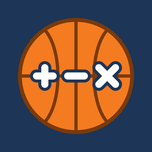
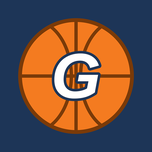
v3.37: Gabi juega con sus compañeros (bienvenida, ánimos en su bocadillo, récord de Gabi) y vuelve el icono de la G
Claude-Session: https://claude.ai/code/session_01SzTzzzohvvMUpqctBHsnA3

diff --git a/index.html b/index.html
@@ -3,11 +3,11 @@
 <head>
 <meta charset="UTF-8">
 <meta name="viewport" content="width=device-width, initial-scale=1, viewport-fit=cover">
-<meta name="app-version" content="3.36">
+<meta name="app-version" content="3.37">
 <meta name="theme-color" content="#1d3557">
 <meta name="apple-mobile-web-app-capable" content="yes">
 <meta name="mobile-web-app-capable" content="yes">
-<meta name="apple-mobile-web-app-title" content="Canastas">
+<meta name="apple-mobile-web-app-title" content="Canastas Gabi">
 <link rel="manifest" href="manifest.webmanifest">
 <link rel="icon" type="image/png" sizes="32x32" href="favicon-32.png">
 <link rel="icon" type="image/png" sizes="192x192" href="icon-192.png">
@@ -15,10 +15,10 @@
 <link rel="apple-touch-icon" sizes="152x152" href="icon-152.png">
 <link rel="apple-touch-icon" sizes="167x167" href="icon-167.png">
 <link rel="apple-touch-icon" sizes="180x180" href="apple-touch-icon.png">
-<title>Canastas: sumas y restas con llevadas</title>
+<title>Canastas de Gabi: sumas y restas con llevadas</title>
 <meta name="description" content="Juego de baloncesto para practicar sumas y restas con llevadas y las tablas de multiplicar (2º de primaria).">
 <meta property="og:type" content="website">
-<meta property="og:title" content="Canastas: sumas, restas y tablas jugando al baloncesto">
+<meta property="og:title" content="Canastas de Gabi">
 <meta property="og:description" content="Juego de baloncesto para practicar sumas y restas con llevadas y las tablas de multiplicar (2º de primaria).">
 <meta property="og:url" content="https://indalo-apps.github.io/canastas-gabi/">
 <meta property="og:image" content="https://indalo-apps.github.io/canastas-gabi/og.png">
@@ -29,7 +29,7 @@
 <link href="https://fonts.googleapis.com/css2?family=Baloo+2:wght@500;700;800&family=Orbitron:wght@700;900&display=swap" rel="stylesheet">
 <style>
   :root{
-    --naranja:#bd570a; --naranja-osc:#c95d0c; --azul:#1d3557; --azul2:#274b7a;
+    --naranja:#b5520a; --naranja-osc:#c95d0c; --azul:#1d3557; --azul2:#274b7a;
     --madera:#e9c48f; --madera2:#d9a865; --verde:#22814b; --rojo:#d63030;
     --crema:#fff8ee; --tinta:#1d2433; --amarillo:#ffd23f; --ik-accent:#e06a10;
   }
@@ -91,8 +91,8 @@
     box-shadow:0 8px 0 var(--o),0 0 0 4px var(--amarillo)}
   .opt[data-nivel]:not(.sel),.opt[data-modo]:not(.sel){filter:saturate(.75) brightness(.97)}
   .opt[data-nivel=suma]{--c:#22814b;--o:#195f37} .opt[data-nivel=resta]{--c:#2c6ccb;--o:#21549a}
-  .opt[data-nivel=tablas]{--c:#6b48f5;--o:#4a2bc4} .opt[data-nivel=mezcla]{--c:#bd570a;--o:#883f07}
-  .opt[data-modo=partido]{--c:#bd570a;--o:#883f07} .opt[data-modo=entreno]{--c:#107f7f;--o:#0c5d5d}
+  .opt[data-nivel=tablas]{--c:#6b48f5;--o:#4a2bc4} .opt[data-nivel=mezcla]{--c:#b5520a;--o:#883f07}
+  .opt[data-modo=partido]{--c:#b5520a;--o:#883f07} .opt[data-modo=entreno]{--c:#107f7f;--o:#0c5d5d}
   .opt[data-modo=reto]{--c:#d63030;--o:#a41c1c}
   .opt[data-modo=rapido]{--c:#7c3aed;--o:#4c1d95}
 
@@ -316,6 +316,12 @@
   .aj-nombre .campo-nombre{margin:0;font-size:1.1rem;min-height:44px;padding:8px 10px}
   .aj-nombre .chip{flex-shrink:0}
   #dlg-nombre .tarjeta{text-align:center}
+  .dice-gabi{position:relative;background:#fff;border:2px solid #1d3557;border-radius:16px;padding:10px 12px;margin:8px 0 4px!important;font-weight:600;color:#1d3557}
+  .dice-gabi::before{content:"";position:absolute;top:-10px;left:50%;margin-left:-9px;border:9px solid transparent;border-top:0;border-bottom:10px solid #1d3557}
+  /* En el partido, los mensajes los dice Gabi: bocadillo con su cara (solo para los compañeros de Gabi) */
+  .con-gabi .mensaje:not(:empty){display:flex;align-items:center;gap:8px;text-align:left;background:#fff;border:2px solid #1d3557;border-radius:14px;
+    padding:4px 10px 4px 4px;margin:4px auto 2px;max-width:100%;width:fit-content}
+  .con-gabi .mensaje:not(:empty)::before{content:"";flex:0 0 38px;height:38px;border-radius:50%;background:#ffd9a8 url(sprites/a32.webp) no-repeat 46% 4%/120px auto;border:2px solid #1d3557}
   #dlg-nombre img{width:90px;height:auto;margin:0 auto 4px;display:block}
   #dlg-nombre p{margin:4px 0;line-height:1.35}
   .nom-nota{display:block;color:#5b6475;margin-top:10px;font-size:.9rem}
@@ -775,7 +781,7 @@ const IK = (function(){
     <div class="led">
       <button class="btn-ajustes btn-esquina izq" id="btn-vitrina" aria-label="Mis trofeos" title="Mis trofeos"><svg viewBox="0 0 24 24" width="24" height="24" aria-hidden="true"><path d="M8 4h8v5a4 4 0 0 1-8 0z M8 6H5a3 3 0 0 0 3 4 M16 6h3a3 3 0 0 1-3 4 M12 13v4 M8 20h8 M10 17h4" fill="none" stroke="#ffd23f" stroke-width="2.1" stroke-linecap="round" stroke-linejoin="round"/></svg></button><button class="btn-ajustes" id="btn-ajustes" aria-label="Ajustes" title="Ajustes"><svg viewBox="0 0 24 24" width="24" height="24" aria-hidden="true"><g fill="none" stroke="#fff" stroke-width="2.2" stroke-linecap="round"><circle cx="12" cy="12" r="3"/><circle cx="12" cy="12" r="6.5"/><path d="M12 2v3M12 19v3M2 12h3M19 12h3M4.9 4.9l2.1 2.1M17 17l2.1 2.1M4.9 19.1L7 17M17 7l2.1-2.1"/></g></svg></button>
       <div class="led-tit" id="led-hola">¡HOLA!</div>
-      <div class="led-sub">Cada cuenta bien hecha es una canasta 🏀</div>
+      <div class="led-sub" id="led-sub">Cada cuenta bien hecha es una canasta 🏀</div>
       <div class="led-fila">
         <div class="led-caja"><div class="led-etq">CANASTAS</div><div class="led-num" id="led-canastas">0</div></div>
         <div class="led-caja"><div class="led-etq">TROFEOS</div><div class="led-num verde" id="led-trofeos">0</div></div>
@@ -832,7 +838,7 @@ const IK = (function(){
       </div>
     </div>
 
-    <div class="version"><span class="nombre-juego">Canastas</span> · <button id="btn-version"></button></div>
+    <div class="version"><span class="nombre-juego">Canastas de Gabi</span> · <button id="btn-version"></button></div>
   </section>
 
   <!-- ============ JUEGO ============ -->
@@ -980,13 +986,13 @@ const IK = (function(){
 <div class="dlg" id="dlg-nombre" hidden role="dialog" aria-modal="true" aria-labelledby="nom-tit">
   <div class="tarjeta">
     <img src="sprites/a32.webp" alt="">
-    <h2 id="nom-tit">¡Hola! ¿Cómo te llamas?</h2>
-    <p>Escribe tu nombre y el público lo gritará en cada canasta 🏀</p>
+    <h2 id="nom-tit">¡Hola! Soy Gabi 👋</h2>
+    <p class="dice-gabi">Este es mi juego de canastas. Te invito a jugar en mi equipo. ¿Cómo te llamas?</p>
     <form id="nom-form" novalidate>
       <label for="nom-input" class="sr-only">Tu nombre</label>
       <input id="nom-input" class="campo-nombre" type="text" maxlength="12" autocomplete="off" autocapitalize="words" spellcheck="false" enterkeyhint="go" placeholder="Tu nombre">
       <p class="nom-error" id="nom-error" role="alert"></p>
-      <button class="btn" type="submit">¡A jugar! 🏀</button>
+      <button class="btn" type="submit">¡A jugar con Gabi! 🏀</button>
     </form>
     <small class="nom-nota">Se guarda solo en este dispositivo. Se puede cambiar en ⚙ Ajustes.</small>
   </div>
@@ -1016,7 +1022,7 @@ const IK = (function(){
       <div class="aj-botones"><button class="chip ancho" id="aj-instalar">📲 Cómo instalarla</button><button class="chip ancho" id="aj-enlace">🔗 Copiar enlace</button></div>
       <div class="aj-guia" id="aj-guia" hidden></div></div>
     <div class="ajuste"><b>Acerca de</b>
-      <p class="aj-acerca">🏀 <b class="nombre-juego">Canastas</b> · versión <span id="aj-version"></span><br>Hecho con cariño para que Gabi y sus compañeros practiquen sumas, restas y tablas jugando al baloncesto.</p>
+      <p class="aj-acerca">🏀 <b class="nombre-juego">Canastas de Gabi</b> · versión <span id="aj-version"></span><br>Este juego es de Gabi y lo comparte con su clase de 2º. Hecho con cariño para practicar sumas, restas y tablas jugando al baloncesto.</p>
       <p class="aj-aviso">Es un juego para practicar en casa y puede tener algún error. Si hay dudas, lo que vale es lo que enseñan en el cole.</p>
       <div class="aj-botones"><button class="chip ancho" id="aj-buscar">🔄 Buscar actualizaciones</button><button class="chip ancho" id="aj-novedades">✨ Ver novedades</button></div>
       <small id="aj-upd-msg" role="status" style="display:block;margin-top:6px;color:#5b6475">El juego se actualiza solo cuando hay una versión nueva.</small></div>
@@ -1055,6 +1061,9 @@ const IK = (function(){
   const PEDIR_NOMBRE = !NOMBRE && store.get('gabi-nombre') !== null;
   if (!NOMBRE) NOMBRE = 'crack';
   const MAY = NOMBRE.toLocaleUpperCase('es');
+  // En la tablet de Gabi todo sigue como siempre; para sus compañeros, Gabi les habla y les anima
+  const ES_GABI = NOMBRE.toLocaleLowerCase('es') === 'gabi';
+  if (!ES_GABI) document.documentElement.classList.add('con-gabi');
 
   // ---------- Sonido ----------
   let ctx = null, sonido = store.get('gabi-sonido'); if (sonido === null) sonido = true;
@@ -1290,6 +1299,12 @@ const IK = (function(){
     '¡Ha besado el aro y se ha escapado! 💋','¡Por un pelo de calvo! Prueba otra vez 👨🦲','¡Ese balón tenía prisa! Mira las casillas rojas',
     '¡Ay, el aro se ha puesto chulito! Otro intento','¡Hasta los mejores fallan! Revisa y vuelve a tirar','¡Uyyy! El público se ha tapado los ojos 🙈',
     '¡Se ha salido haciendo una pirueta! Otra vez','¡Casi entra! Mira despacio cada columna 🔍','¡Error de cálculo, capitán! Tienes otro tiro'];
+  if (!ES_GABI){
+    msgBien.push(`¡Toma ya, ${NOMBRE}! Así se juega en mi equipo 🏀`, '¡Eso lo hago yo con los ojos cerrados… bueno, casi! 😄',
+      `¡Choca esos cinco, ${NOMBRE}! ✋`, `¡Qué buen pase, ${NOMBRE}! La he metido gracias a ti`, `¡Me alegro de que juegues conmigo, ${NOMBRE}!`);
+    msgTriple.push(`¡Triple! ¡Tú y yo somos imparables, ${NOMBRE}! 🔥`, `¡Tres seguidas! Ni yo lo hago tan bien, ${NOMBRE} 😄`);
+    msgMal.push(`Tranqui, ${NOMBRE}, empieza por las unidades 😉`, `A mí también me pasa, ${NOMBRE}. ¡Otra vez!`, `No pasa nada, ${NOMBRE}. Lo repasamos juntos 🤝`);
+  }
   const msgRival = n => [`¡Canasta de ${n}!`,`${n} también sabe… ¡de momento!`,`¡Bien, ${n}! Pero ${NOMBRE} va a por ti`,
     `${n} ha acertado… ¡con las gafas puestas! 🤓`,`¡${n} no se ha oxidado nada! 🔧`,`¡Canasta! ${n} se viene arriba`,
     `${n} lo ha calculado con los dedos de los pies 🦶`,`Vaya, vaya… ${n} entrena a escondidas`];
@@ -1344,6 +1359,17 @@ const IK = (function(){
     return {suma:'Sumas', resta:'Restas', mezcla:'Mezcla'}[S.nivel] + (S.cifras==='3' ? ' de 3 cifras' : '');
   }
   const claveRecord = () => 'gabi-record-' + (S.modo==='rapido' ? 'rapido-' : '') + (S.nivel==='tablas' ? 'tabla-' + S.tabla : nivelReal());
+  // ---------- Récords de Gabi ----------
+  // Las mejores marcas de Gabi, para que sus compañeros intenten superarlas. Clave: la de claveRecord() sin «gabi-record-»
+  // (por ejemplo 'suma', 'resta3', 'tabla-7', 'rapido-suma'). Si una no está, no se muestra nada.
+  const RECORD_GABI = {};
+  const recordGabi = clave => ES_GABI ? 0 : (RECORD_GABI[String(clave).replace('gabi-record-','')] || 0);
+  const txtGabi = (puntos, clave) => {
+    const rg = recordGabi(clave); if (!rg) return '';
+    return puntos > rg ? `<p class="dice-gabi">🏆 ¡Has superado mi récord (${rg})! ¡Qué crack, ${NOMBRE}! — Gabi</p>`
+      : puntos === rg ? `<p class="dice-gabi">¡Empate con mi récord (${rg})! La próxima me ganas, ${NOMBRE} 😄 — Gabi</p>`
+      : `<p>⛹ Récord de Gabi: ${rg} puntos. ¡A por él! 💪</p>`;
+  };
   // Selector de cifras
   function pintarCifras(){ document.querySelectorAll('#chips-cifras .chip').forEach(c=>c.classList.toggle('sel', c.dataset.cifras===S.cifras)); }
   $('#chips-cifras').addEventListener('click', e => {
@@ -1366,7 +1392,9 @@ const IK = (function(){
     const md = {partido:'Partido', entreno:'Entrenamiento', rapido:'Contrarreloj', reto:'Reto contra ' + (S.rival==='Mamá' ? 'mamá' : 'papá')}[S.modo] || '';
     const rs = document.getElementById('bj-resumen'); if (rs) rs.textContent = nombreNivel() + ' · ' + md;
     const r = store.get(claveRecord());
-    $('#record-txt').textContent = r ? `🏆 Tu récord en ${S.modo==='rapido' ? 'Contrarreloj de ' + nombreNivel().toLowerCase() : nombreNivel()}: ${r} puntos` : '';
+    const rg = recordGabi(claveRecord());
+    $('#record-txt').textContent = (r ? `🏆 Tu récord en ${S.modo==='rapido' ? 'Contrarreloj de ' + nombreNivel().toLowerCase() : nombreNivel()}: ${r} puntos` : '')
+      + (rg ? `${r ? ' · ' : ''}⛹ Récord de Gabi: ${rg}` : '');
   }
   pintarRecord();
 
@@ -1486,7 +1514,7 @@ const IK = (function(){
     const luces = (n, max, color) => `<div class="luces">${Array.from({length:max},(_,i)=>`<i style="${i<n?`background:${color};box-shadow:0 0 6px ${color}`:''}"></i>`).join('')}</div>`;
     if (J.modo==='reto'){
       const [g,r] = J.jug;
-      m.innerHTML = `${salir}${equipo(`${MAY}`, g.puntos, '#ff3b30', J.turno===0?'turno':'')}
+      m.innerHTML = `${salir}${equipo(ES_GABI || MAY.length > 5 ? MAY : `${MAY} Y GABI`, g.puntos, '#ff3b30', J.turno===0?'turno':'')}
         <div class="centro"><div class="nom">RONDA</div><div class="panel peq">${seg7(Math.min(Math.floor(J.n/2)+1,5),'#ffb000',26,1)}</div>
           <div class="posesion"><span class="${J.turno===0?'on':''}">◀</span><small>TURNO</small><span class="${J.turno===1?'on':''}">▶</span></div></div>
         ${equipo(r.nombre.toUpperCase(), r.puntos, '#ff3b30', J.turno===1?'turno':'')}${snd}`;
@@ -2011,7 +2039,7 @@ const IK = (function(){
     let valla = `<rect x="0" y="${yValla}" width="${W}" height="${hValla}" fill="#0b1226"/><rect x="0" y="${yValla}" width="${W}" height="1.5" fill="#3b4a73"/>`;
     // valla LED: los anuncios se deslizan sin parar; parpadea a ratos y avisa de las canastas
     const textos = vacio ? ['ENTRENAMIENTO','SIN PRISA','PRÁCTICA LIBRE',(MAY.length <= 6 ? `¡TÚ PUEDES, ${MAY}!` : '¡TÚ PUEDES!')]
-      : [MAY.length <= 6 ? `CANASTAS DE ${MAY}` : 'CANASTAS','★ 2º DE PRIMARIA ★','¡A POR EL TRIPLE!','CALCULA · BOTA · ENCESTA',`${MAY} Nº 3`];
+      : ['CANASTAS DE GABI','★ 2º DE PRIMARIA ★','¡A POR EL TRIPLE!','CALCULA · BOTA · ENCESTA','GABI Nº 3'].concat(ES_GABI ? [] : [MAY.length <= 7 ? `¡VAMOS, ${MAY}!` : '¡VAMOS, EQUIPO!']);
     const pasoV = 190, PV = pasoV*textos.length, vueltas = Math.ceil(W/PV) + 1;
     let cinta = '';
     for (let v = 0; v < vueltas; v++) textos.forEach((t,i) => cinta += `<text x="${v*PV + i*pasoV + 8}" y="${yValla+12}" font-family="Orbitron, monospace" font-weight="900" font-size="11" fill="${['#38bdf8','#ffb000','#39d353','#ff5a8a','#ffffff'][i%5]}" letter-spacing="1">${t}</text>`);
@@ -2742,7 +2770,7 @@ const IK = (function(){
       : est===3 ? frase([`¡Partidazo, ${NOMBRE}! Eres el MVP 🏆`,'¡Qué exhibición! El público pide tu autógrafo ✍','¡Partido de leyenda! Mañana sales en el periódico 📰'])
       : est===2 ? frase([`¡Muy buen partido, ${NOMBRE}! 💪`,'¡Gran partido! El entrenador está contentísimo 😄','¡Buenísimo! Un par de canastas más y es de récord'])
       : frase([`¡Bien jugado, ${NOMBRE}! Cada partido lo harás mejor 🏀`,'¡Los campeones también entrenan! A por el siguiente 💪','¡Buen esfuerzo! El próximo partido es tuyo 🔥'])}</b></p>
-        ${prev>0 && !record ? `<p>Tu récord: ${prev} puntos</p>`:''}`;
+        ${prev>0 && !record ? `<p>Tu récord: ${prev} puntos</p>`:''}${txtGabi(J.puntos, clave)}`;
       if (est===3 || record) confeti(80);
     } else if (J.modo==='rapido'){
       const clave = J.clave, prev = store.get(clave) || 0, record = J.puntos > prev; if (record) store.set(clave, J.puntos);
@@ -2752,7 +2780,7 @@ const IK = (function(){
         <div class="grande">${J.puntos}</div><p>puntos · ${J.aciertos} cuentas bien en 1 minuto${J.fallos ? ` · ${J.fallos} fallos` : ''}</p>
         <p style="font-size:1.2rem;margin-top:10px"><b>${record && prev>0 ? frase([`🏆 ¡NUEVO RÉCORD, ${NOMBRE}!`,'🏆 ¡Récord! ¡Más rápido que nunca! ⚡'])
           : est===3 ? frase(['¡Eres una calculadora humana! ⚡','¡Velocidad de campeón! 🏆']) : est===2 ? frase([`¡Muy rápido, ${NOMBRE}! 💪`,'¡Buen ritmo! A por el récord 🔥']) : frase(['¡Bien! Cuanto más juegues, más rápido irás 🏀','¡Buen esfuerzo! La próxima vez, más 💪'])}</b></p>
-        ${prev>0 && !record ? `<p>Tu récord: ${prev} puntos</p>` : ''}`;
+        ${prev>0 && !record ? `<p>Tu récord: ${prev} puntos</p>` : ''}${txtGabi(J.puntos, clave)}`;
       if (est===3 || record) confeti(80);
     } else if (J.modo==='reto'){
       const [g,r] = J.jug;
@@ -2869,6 +2897,7 @@ const IK = (function(){
   const VERSION = (document.querySelector('meta[name="app-version"]')||{}).content || 'dev';
   // Lo que trae cada versión, contado para Gabi (lo más nuevo, arriba)
   const NOVEDADES = [
+    ['3.37',['⛹ ¡Ahora Gabi juega con sus compañeros! Les saluda, les anima por su nombre y les invita a su equipo', '🏆 Récord de Gabi: ¿quién lo supera?', '🏀 Vuelve el icono del balón con la G']],
     ['3.36',['✍ Cada jugador escribe su nombre al empezar y el público lo grita en cada canasta', '⚙ El nombre se puede cambiar en Ajustes', '🏀 Icono nuevo: un balón con +, − y ×', '👀 Colores de los botones más fuertes para que se lean mejor']],
     ['3.35.1',['📲 Ayuda para instalar al día con iOS 27: el botón de tres rayas dentro de la barra de la dirección']],
   ['3.35', ['🔄 En Ajustes, botón «Buscar actualizaciones»', '📲 Ayuda para instalarlo con los pasos de tu iPad o móvil, y aviso amarillo en el menú', '🖼 Iconos para todos los tamaños e imagen al compartir el enlace']],
@@ -3197,9 +3226,8 @@ const IK = (function(){
   const CON_NOMBRE = NOMBRE !== 'crack';
   if (CON_NOMBRE){
     $('#led-hola').textContent = `¡HOLA, ${MAY}!`;
+    if (!ES_GABI) $('#led-sub').textContent = `Gabi: «¿Echamos unas canastas, ${NOMBRE}?» 🏀`;
     if (MAY.length > 6) $('#led-hola').style.fontSize = MAY.length > 9 ? '1rem' : '1.2rem';
-    document.querySelectorAll('.nombre-juego').forEach(el => el.textContent = `Canastas de ${NOMBRE}`);
-    document.title = `Canastas de ${NOMBRE}: sumas y restas con llevadas`;
   }
   // Guarda el nombre y recarga para que todos los mensajes del juego lo usen
   function guardarNombre(valor, error){
@@ -3265,7 +3293,7 @@ const IK = (function(){
   document.addEventListener('visibilitychange', ()=>{ if (document.visibilityState==='visible') buscarVersion(); });
   setInterval(buscarVersion, 5*60*1000);
   setTimeout(buscarVersion, 3000);
-  IK.init({nombre: 'Canastas', clave: 'gabi-sumas', version: VERSION, onNueva: () => actualizar(),
+  IK.init({nombre: 'Canastas Gabi', clave: 'gabi-sumas', version: VERSION, onNueva: () => actualizar(),
     esInicio: () => $('#inicio').classList.contains('activa') && $('#dlg-ajustes').hidden && $('#dlg-nombre').hidden && $('#dlg-novedades').hidden});
   $('#aj-buscar').onclick = () => { sClic(); IK.buscar($('#aj-buscar'), $('#aj-upd-msg')); };
   // Sin internet: el service worker guarda el juego para que funcione sin conexión

diff --git a/sw.js b/sw.js
@@ -1,6 +1,6 @@
 // Service worker de Canastas de Gabi: permite jugar sin conexión.
 // Al subir una versión nueva, cambia el nombre de la caché y se borra la anterior.
-const CACHE = "canastas-gabi-3.36";
+const CACHE = "canastas-gabi-3.37";
 const PRECACHE = ["./", "index.html", "manifest.webmanifest", "apple-touch-icon.png", "icon-192.png", "icon-512.png", "icon-152.png", "icon-167.png", "icon-maskable-512.png", "favicon-32.png", "sonidos/aplauso.mp3", "sonidos/ooh.mp3",
   "sprites/f00.webp", "sprites/f01.webp", "sprites/f02.webp", "sprites/f03.webp", "sprites/f30.webp", "sprites/f31.webp", "sprites/f32.webp", "sprites/f33.webp", "sprites/g00.webp", "sprites/g01.webp", "sprites/g02.webp", "sprites/g03.webp", "sprites/g10.webp", "sprites/g11.webp", "sprites/g12.webp", "sprites/g13.webp", "sprites/g20.webp", "sprites/g21.webp", "sprites/g22.webp", "sprites/g23.webp", "sprites/g30.webp", "sprites/g31.webp", "sprites/g32.webp", "sprites/g33.webp", "sprites/a00.webp", "sprites/a01.webp", "sprites/a02.webp", "sprites/a03.webp", "sprites/a12.webp", "sprites/a13.webp", "sprites/a20.webp", "sprites/a21.webp", "sprites/a22.webp", "sprites/a23.webp", "sprites/a30.webp", "sprites/a31.webp", "sprites/a32.webp", "sprites/b00.webp", "sprites/b01.webp", "sprites/b02.webp", "sprites/b03.webp", "sprites/b10.webp", "sprites/b11.webp", "sprites/b12.webp", "sprites/b13.webp", "sprites/b20.webp", "sprites/b21.webp", "sprites/b22.webp", "sprites/b23.webp", "sprites/b30.webp", "sprites/b31.webp", "sprites/b32.webp", "sprites/b33.webp", "sprites/c00.webp", "sprites/c01.webp", "sprites/c02.webp", "sprites/c03.webp", "sprites/c10.webp", "sprites/c11.webp", "sprites/c12.webp", "sprites/c13.webp", "sprites/d00.webp", "sprites/d01.webp", "sprites/d02.webp", "sprites/d03.webp", "sprites/d10.webp", "sprites/d11.webp", "sprites/d12.webp", "sprites/d13.webp", "sprites/d20.webp", "sprites/d21.webp", "sprites/d22.webp", "sprites/d23.webp", "sprites/t00.webp", "sprites/t01.webp", "sprites/t02.webp", "sprites/t03.webp", "sprites/t10.webp", "sprites/t11.webp", "sprites/t12.webp", "sprites/t13.webp", "sprites/t20.webp", "sprites/t21.webp", "sprites/t22.webp", "sprites/t23.webp", "sprites/e00.webp", "sprites/e01.webp", "sprites/e02.webp", "sprites/e03.webp", "sprites/e10.webp", "sprites/e11.webp", "sprites/e12.webp", "sprites/e13.webp", "sprites/x00.webp", "sprites/x01.webp", "sprites/x02.webp", "sprites/x03.webp", "sprites/x10.webp", "sprites/x11.webp", "sprites/x12.webp", "sprites/x13.webp", "sprites/x20.webp", "sprites/x21.webp", "sprites/x22.webp", "sprites/x23.webp", "sprites/x30.webp", "sprites/x31.webp", "sprites/x32.webp", "sprites/x33.webp", "sprites/bal0.webp", "sprites/bal1.webp", "sprites/bal2.webp", "sprites/bal3.webp", "sprites/aro-fondo.webp", "sprites/red0.webp", "sprites/red1.webp", "sprites/red2.webp", "sprites/red3.webp", "sprites/red4.webp", "sprites/w00.webp", "sprites/w01.webp", "sprites/w02.webp", "sprites/w03.webp", "sprites/w10.webp", "sprites/w11.webp", "sprites/w12.webp", "sprites/w13.webp", "sprites/w20.webp", "sprites/w21.webp", "sprites/w22.webp", "sprites/w23.webp", "sprites/w30.webp", "sprites/w31.webp", "sprites/w32.webp", "sprites/w33.webp", "sprites/r00.webp", "sprites/r01.webp", "sprites/r02.webp", "sprites/r03.webp", "sprites/r10.webp", "sprites/r11.webp", "sprites/r12.webp", "sprites/r13.webp", "sprites/r20.webp", "sprites/r21.webp", "sprites/r22.webp", "sprites/r23.webp", "sprites/r30.webp", "sprites/r31.webp", "sprites/r32.webp", "sprites/r33.webp", "sprites/red0.webp", "sprites/red1.webp", "sprites/red2.webp", "sprites/red3.webp", "sprites/red4.webp", "sprites/w00.webp", "sprites/w01.webp", "sprites/w02.webp", "sprites/w03.webp", "sprites/w10.webp", "sprites/w11.webp", "sprites/w12.webp", "sprites/w13.webp", "sprites/w20.webp", "sprites/w21.webp", "sprites/w22.webp", "sprites/w23.webp", "sprites/w30.webp", "sprites/w31.webp", "sprites/w32.webp", "sprites/w33.webp", "sprites/s00.webp", "sprites/s01.webp", "sprites/s02.webp", "sprites/s03.webp", "sprites/s10.webp", "sprites/s11.webp", "sprites/s12.webp", "sprites/s13.webp", "sprites/p00.webp", "sprites/p01.webp", "sprites/p02.webp", "sprites/p03.webp", "sprites/p10.webp", "sprites/p11.webp", "sprites/p12.webp", "sprites/p13.webp", "sprites/p20.webp", "sprites/p21.webp", "sprites/p22.webp", "sprites/p23.webp", "sprites/p30.webp", "sprites/p31.webp", "sprites/p32.webp", "sprites/p33.webp", "sprites/q00.webp", "sprites/q01.webp", "sprites/q02.webp", "sprites/q03.webp", "sprites/q10.webp", "sprites/q11.webp", "sprites/q12.webp", "sprites/q13.webp", "sprites/q20.webp", "sprites/q21.webp", "sprites/q22.webp", "sprites/q23.webp", "sprites/q30.webp", "sprites/q31.webp", "sprites/q32.webp", "sprites/q33.webp", "sprites/k00.webp", "sprites/k01.webp", "sprites/k02.webp", "sprites/k03.webp", "sprites/k10.webp", "sprites/k11.webp", "sprites/k12.webp", "sprites/k13.webp", "sprites/k20.webp", "sprites/k21.webp", "sprites/k22.webp", "sprites/k23.webp", "sprites/m00.webp", "sprites/m01.webp", "sprites/m02.webp", "sprites/m03.webp", "sprites/m10.webp", "sprites/m11.webp", "sprites/m12.webp", "sprites/m13.webp", "sprites/m20.webp", "sprites/m21.webp", "sprites/m22.webp", "sprites/m23.webp", "sprites/m30.webp", "sprites/m31.webp", "sprites/m32.webp", "sprites/m33.webp", "sprites/y00.webp", "sprites/y01.webp", "sprites/y02.webp", "sprites/y03.webp", "sprites/y10.webp", "sprites/y11.webp", "sprites/y12.webp", "sprites/y13.webp", "sprites/y20.webp", "sprites/y21.webp", "sprites/y22.webp", "sprites/y23.webp", "sprites/y30.webp", "sprites/y31.webp", "sprites/y32.webp", "sprites/y33.webp",
   "https://fonts.googleapis.com/css2?family=Baloo+2:wght@500;700;800&family=Orbitron:wght@700;900&display=swap"];

diff --git a/README.md b/README.md
@@ -1,6 +1,6 @@
 # Canastas de Gabi
 
-Juego de baloncesto para practicar sumas y restas con llevadas y las tablas (2º de primaria). Se hizo para Gabi y desde la 3.36 lo usan también sus compañeros de clase: cada niño escribe su nombre al abrirlo (se guarda solo en su dispositivo, en `gabi-nombre`). Los dispositivos que ya tenían partidas de antes de la 3.36 se quedan con «Gabi».
+Juego de baloncesto para practicar sumas y restas con llevadas y las tablas (2º de primaria). Se hizo para Gabi y desde la 3.36 lo usan también sus compañeros de clase: cada niño escribe su nombre al abrirlo (se guarda solo en su dispositivo, en `gabi-nombre`). Los dispositivos que ya tenían partidas de antes de la 3.36 se quedan con «Gabi». Desde la 3.37, a los compañeros les habla Gabi (bienvenida, mensajes en su bocadillo) y pueden intentar superar sus récords (`RECORD_GABI` en `index.html`).
 
 Se publica con GitHub Pages: https://indalo-apps.github.io/canastas-gabi/
 
